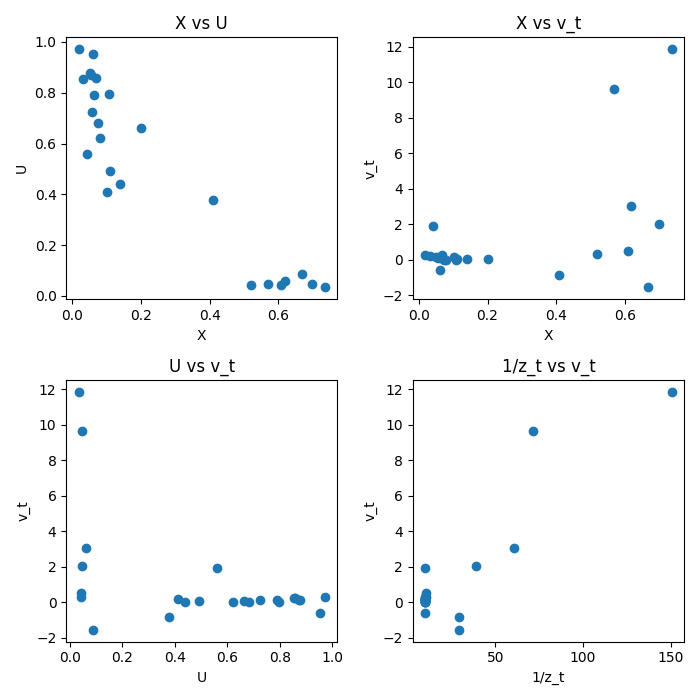
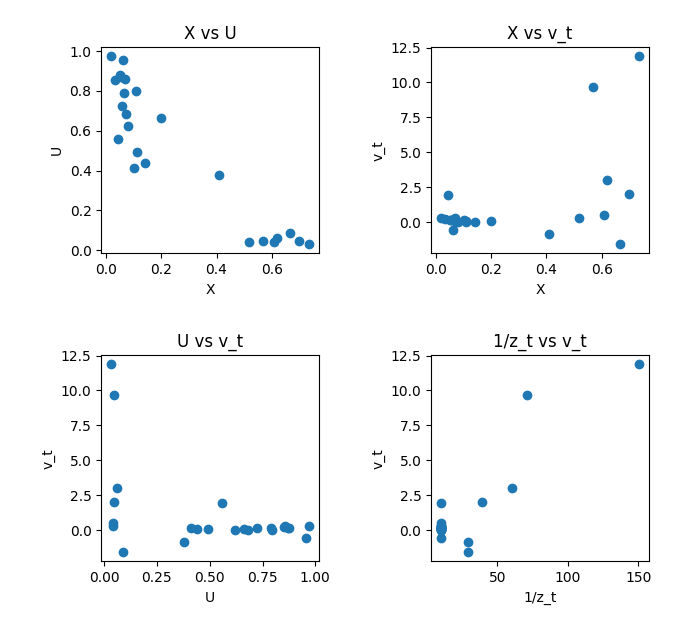
update

diff --git a/mich_workspace/week_13/functional_analysis/functional_07.py b/mich_workspace/week_13/functional_analysis/functional_07.py
@@ -45,7 +45,7 @@ z_t  = np.mean(z_t , axis=1)
 
 # change device to cpu
 # Plot scatter plot of the data
-plt.subplots(figsize=(7, 7))
+plt.subplots(figsize=(5, 5))
 plt.subplot(2, 2, 1)
 plt.scatter(X , U )
 plt.xlabel('X')
@@ -74,7 +74,7 @@ plt.tight_layout()
 plt.show()
 
 # plot histogram of the four variables
-plt.subplots(figsize=(7, 7))
+plt.subplots(figsize=(5, 5))
 plt.subplot(2, 2, 1)
 plt.hist(X , bins=50)
 plt.xlabel('X')
